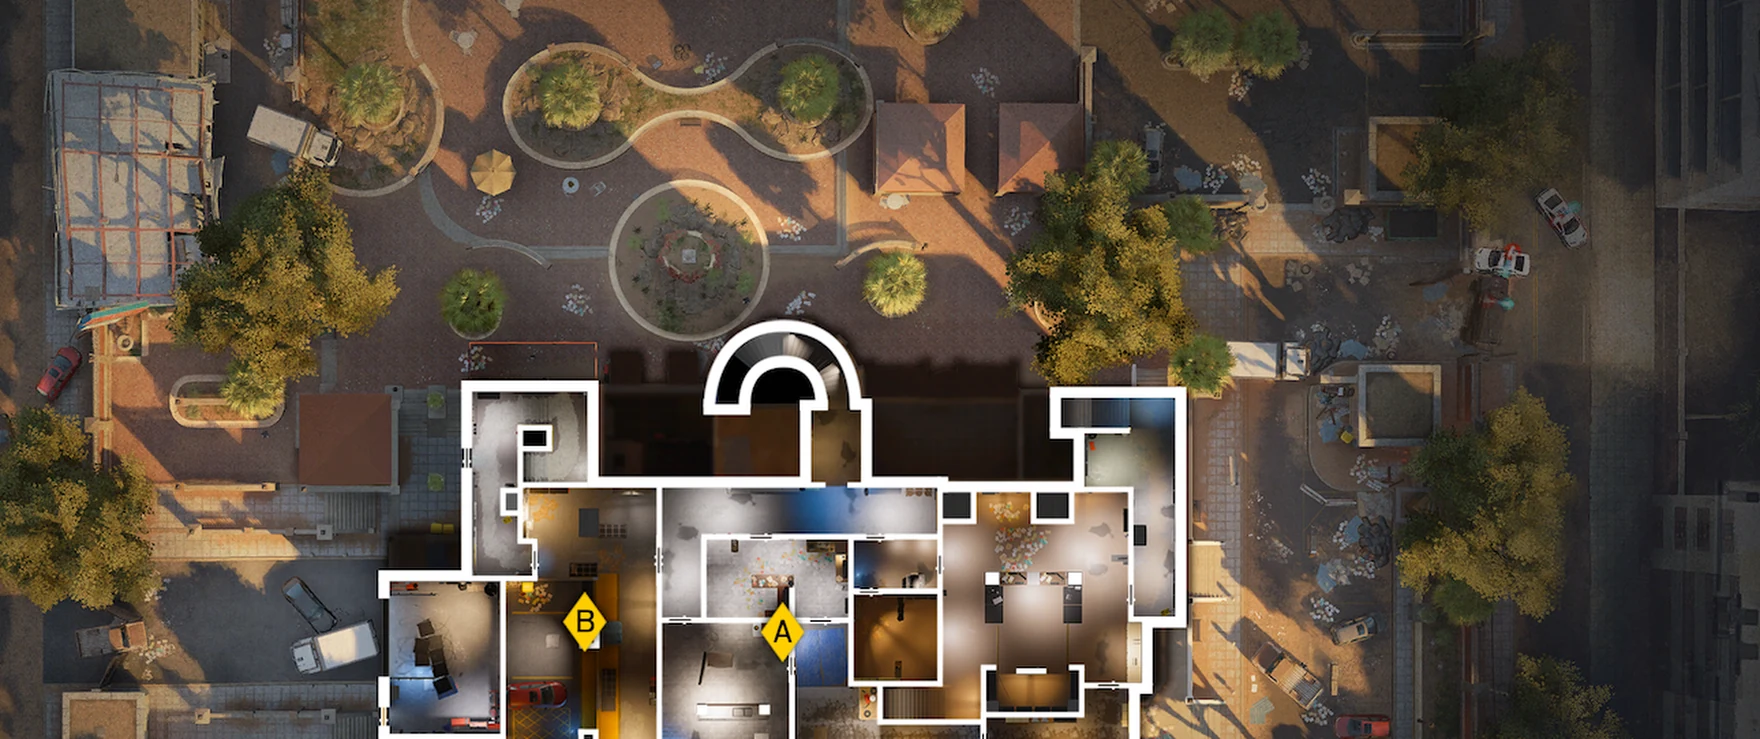
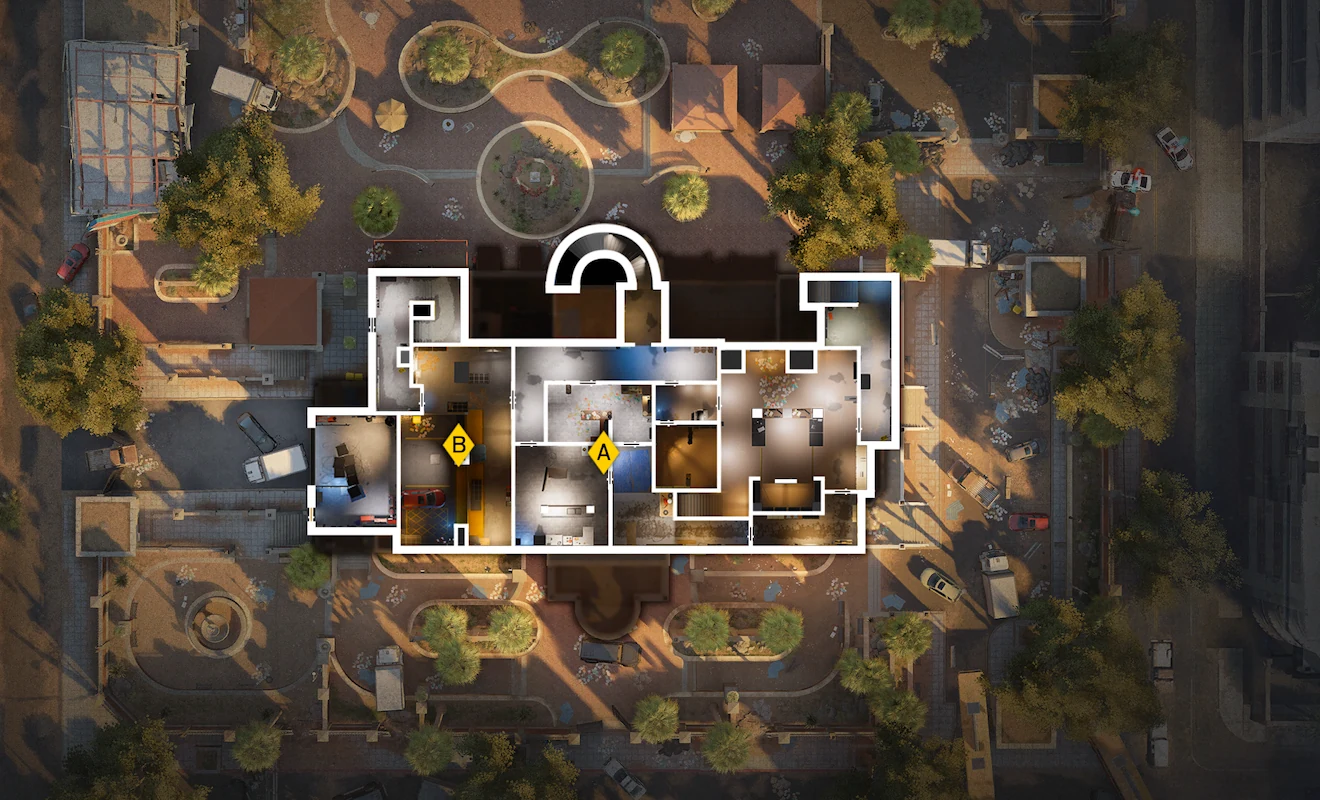
r6: one fixed crop, anchored bottom-right, applied identically to all 4 floors
Bronson's fix to the previous approach: instead of locating each floor's
building independently (which gave four slightly different crop boxes even
though the source screenshots are mutually aligned), use ONE crop rectangle
-- same pixel offsets on every floor -- anchored on the bottom-right
corner, trimming only from the top and left. Confirmed this actually is
correct: the same box lands the building in the identical spot on all
four floors, matching his claim that they share one camera position.

Also answered his aspect-ratio question the hard way: hitting the previous
2.38:1 (chosen to fill a phone screen edge-to-edge in landscape) while
also keeping the whole building in frame and clearing the game's own
vote-menu panel turned out to be geometrically impossible from this
source -- the building's own footprint is closer to 1.2:1. The crop that
clears the HUD and keeps the full building lands at 1.65:1 instead.
Flagged plainly rather than silently forcing the old ratio: this no
longer fills a phone screen edge-to-edge in landscape (bars down the
sides), traded for the building never being cropped and the HUD never
showing. His call if that trade needs revisiting.

Canvas is now 1320x800 (down from the intermediate 1760x739 -- that number
was chasing the old aspect ratio, which this crop can't hit anyway).
rooms.json is still the clean-slate reset from the previous commit, so
none of this touched any coordinate data.
[…]

diff --git a/r6/index.html b/r6/index.html
@@ -516,7 +516,7 @@ body:not(.entered) .chip{opacity:0;pointer-events:none;}
 
 <div id="stage">
   <div id="sheet">
-    <svg id="rooms" viewBox="0 0 1760 739" preserveAspectRatio="none"></svg>
+    <svg id="rooms" viewBox="0 0 1320 800" preserveAspectRatio="none"></svg>
   </div>
 
   <!-- Deliberately OUTSIDE #sheet. A room label belongs to the building and
@@ -635,9 +635,14 @@ var MAPS = {
        the box that holds the building and a ring of plaza -- that is what
        gets fitted to the screen at rest; the rest of the width is street
        context that fills a wide screen instead of leaving bars. */
-    w: 1760, h: 739,           /* 1.6x the original 1100x462 -- same frame, more pixels in it
-                                   (2026-09-25, switching to Bronson's own in-game captures) */
-    focus: { x:400, y:0, w:960, h:739 },
+    w: 1320, h: 800,           /* 2026-09-25: one fixed crop applied identically to all four
+                                   of Bronson's in-game captures, anchored on the bottom-right
+                                   corner (his reference point -- the screenshots share one
+                                   camera position) with only the top and left trimmed to clear
+                                   the game's own HUD. Natural aspect from that crop is 1.65:1,
+                                   not the old 2.38:1 -- going wider would have meant either
+                                   showing the vote-menu panel or cropping into the building. */
+    focus: { x:100, y:0, w:1020, h:800 },
     floors: [
       { id:'roof',     nm:'Bird’s-eye',   tone:1800 },
       { id:'2f',       nm:'Second floor', tone:1500 },
@@ -727,7 +732,10 @@ function inPoly(p, x, y){
    what Reception happened to get under the old rule, which is the one Bronson
    picked out as right. Nothing collides, because the map only ever shows one
    name at a time. */
-var LABEL_SIZE = 23.2;          /* map units, of the 1760x739 frame (14.5 * 1.6, was 1100x462) */
+var LABEL_SIZE = 17.4;          /* map units, of the 1320x800 frame -- scaled to keep the same
+                                    proportion of frame width as the original 14.5/1100 pick.
+                                    A placeholder until Bronson re-picks one on real labels,
+                                    same as "Reception is perfect" settled the original. */
 
 /* Where the name sits: the middle of the room -- but a bounding-box middle
    falls outside an L-shaped room, and a name floating in the room next door
